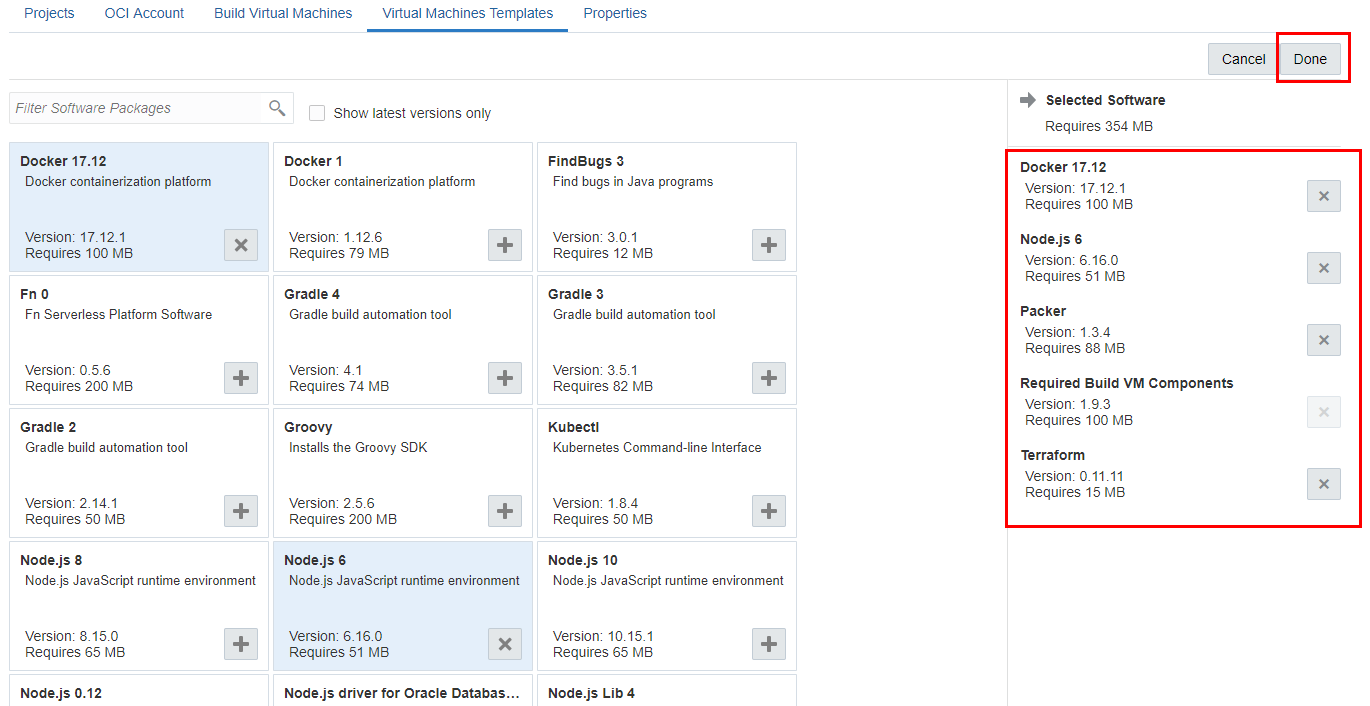
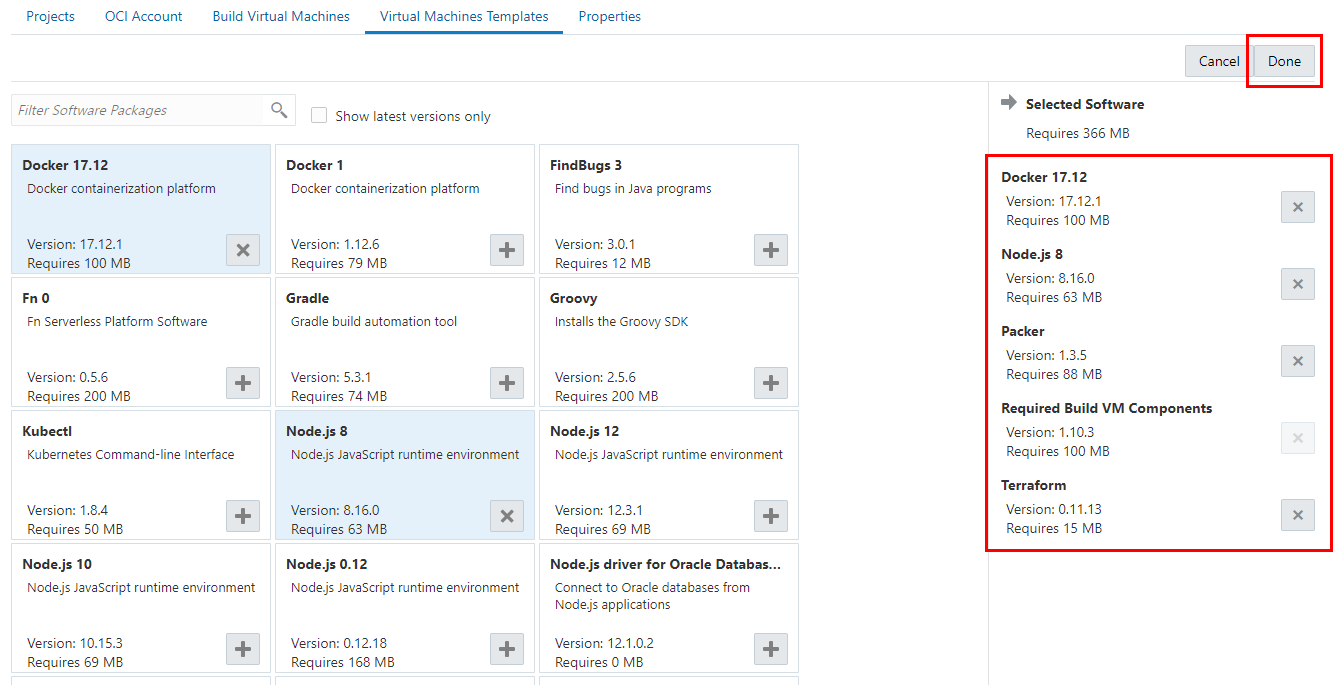
Updated DevCS Lab 100

diff --git a/workshops/devcs-mysql/Lab100.md b/workshops/devcs-mysql/Lab100.md
@@ -484,7 +484,7 @@ In this step Software Templates define what supporting software packages get inc
 - Click on the big plus sign for the following packages:
 
    - **Docker 17**
-   - **Node.js 6**
+   - **Node.js 8**
    - **Terraform**
    - **Packer**
 
